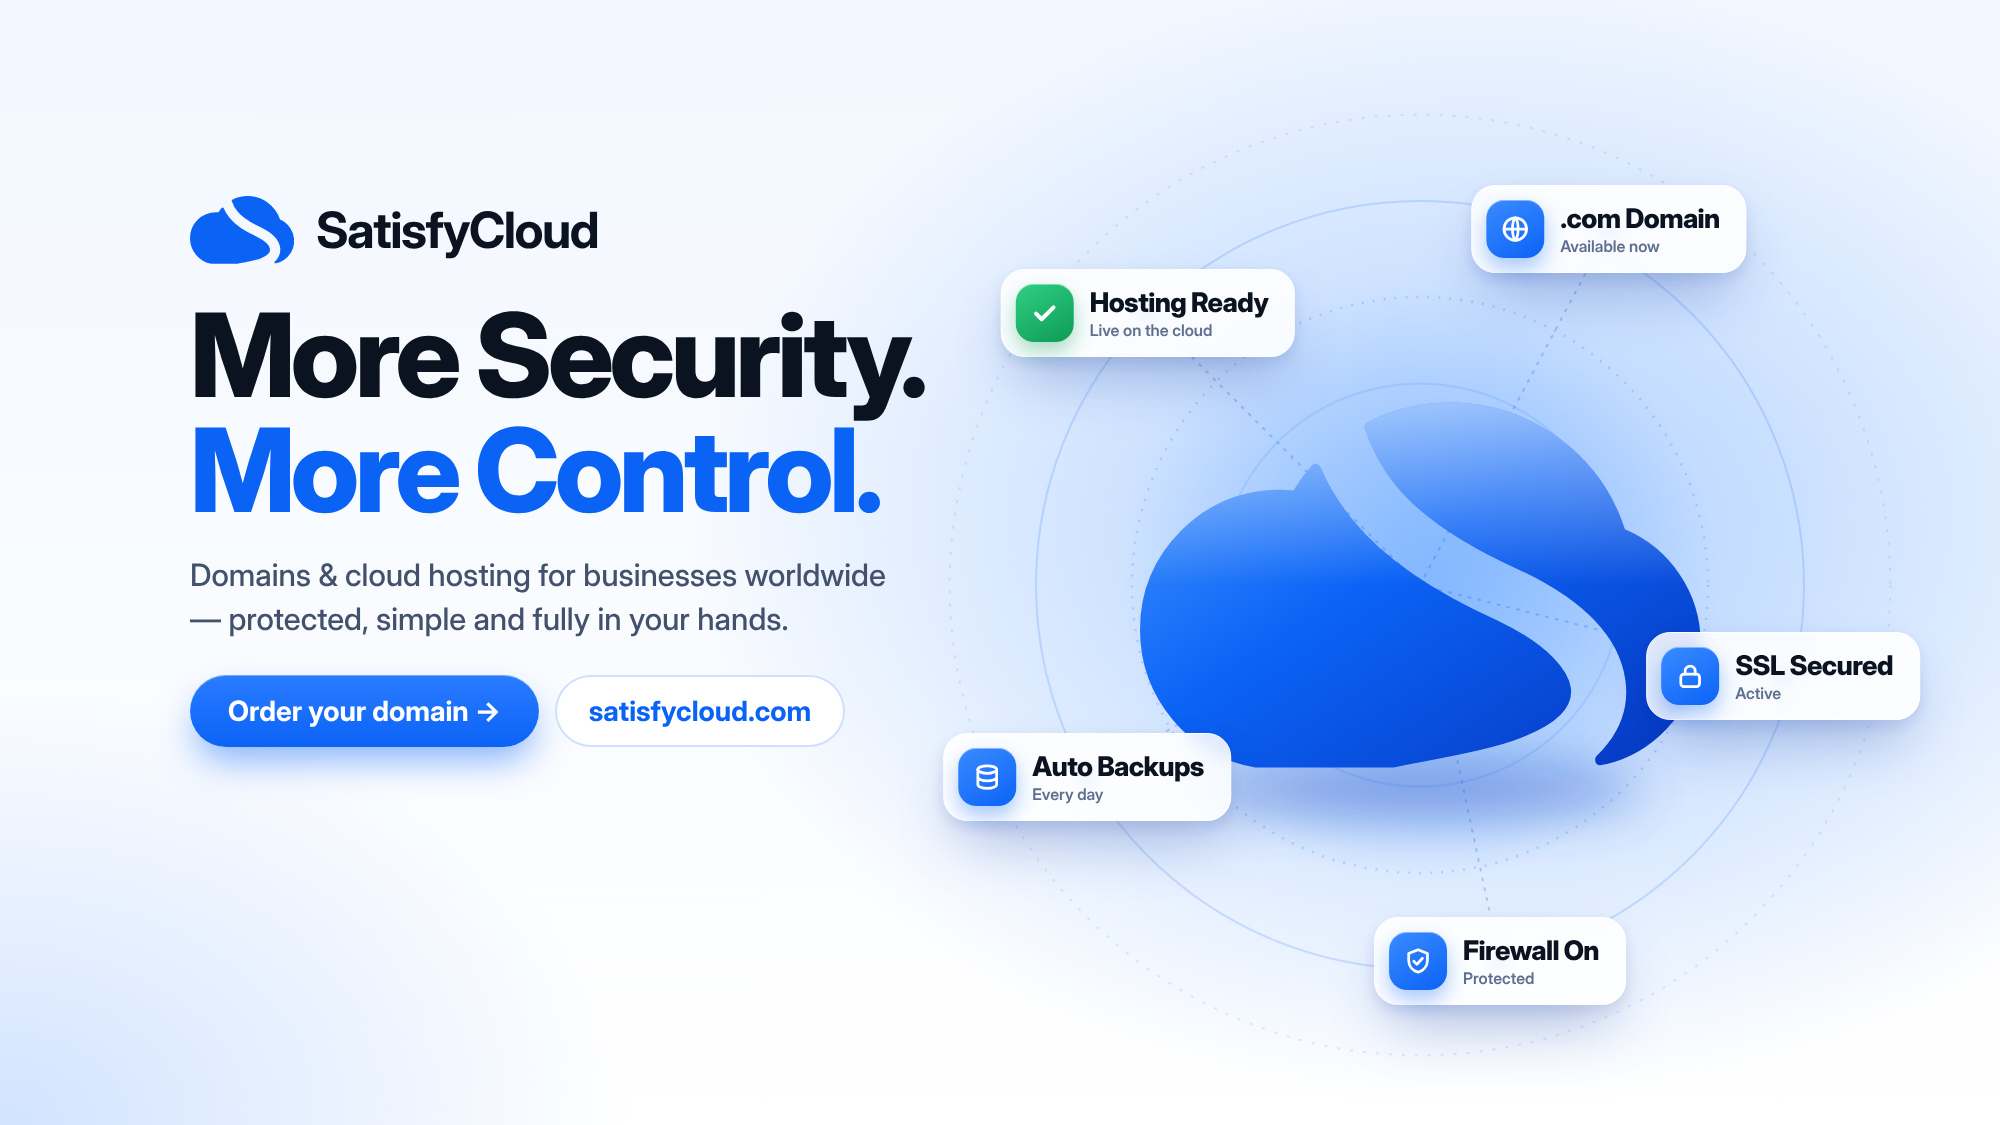
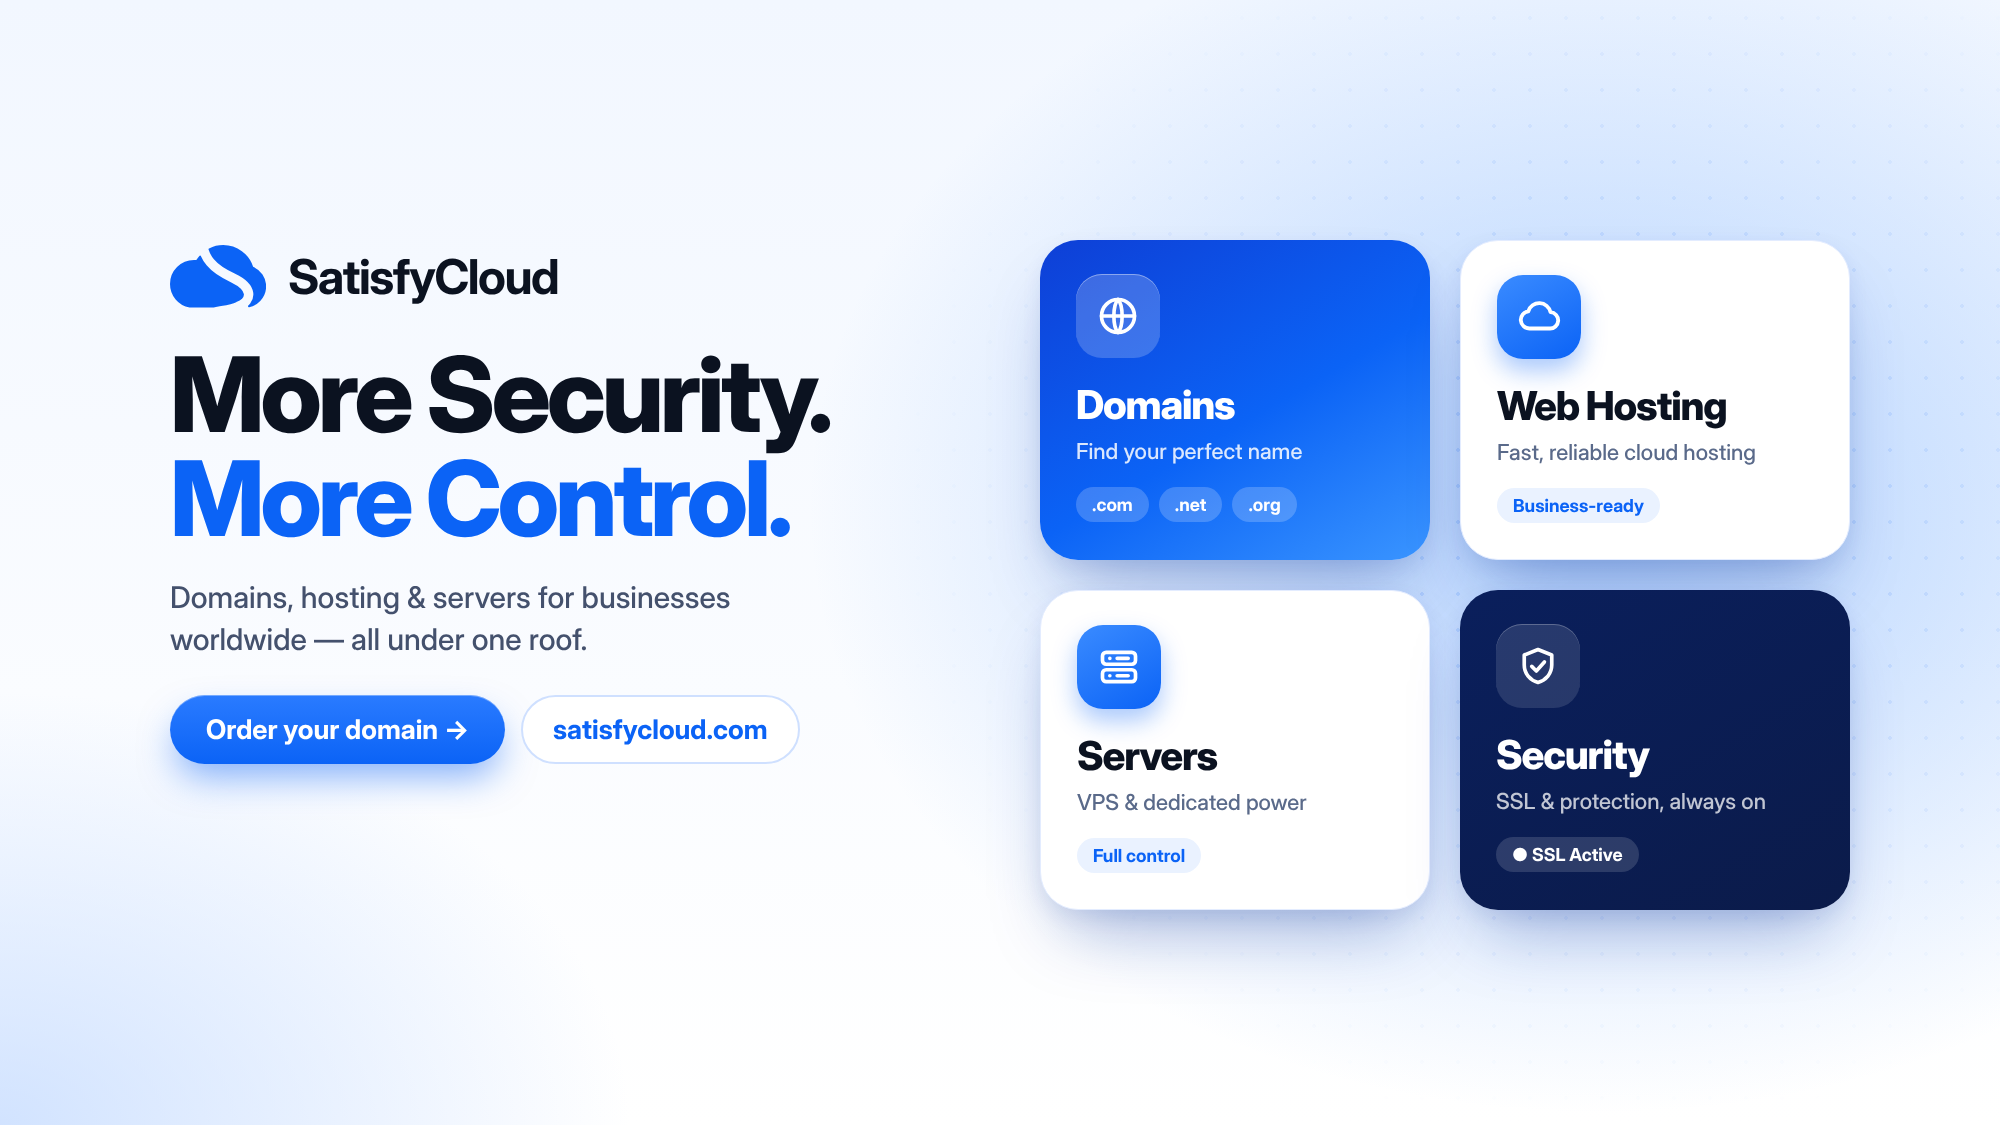
Cover shows all services in safe zone; new distinct domain-search post
Claude-Session: https://claude.ai/code/session_01HRGDra9WXwvMnTFnzRxiJG

diff --git a/satisfycloud/social/make5.py b/satisfycloud/social/make5.py
@@ -1,0 +1,63 @@
+import re
+from playwright.sync_api import sync_playwright
+Dw=open("../dist/svg/mark-tight_white.svg").read(); D=re.search(r' d="([^"]+)"',Dw)[1]
+MW,MH=[int(x) for x in re.search(r'viewBox="0 0 (\d+) (\d+)"',Dw).groups()]
+def mark(w,c="#0B63F6"): return f'<svg viewBox="0 0 {MW} {MH}" width="{w}" height="{w*MH/MW:.1f}"><path fill="{c}" d="{D}"/></svg>'
+def ic(p,c="#fff",s=40,w=2): return f'<svg width="{s}" height="{s}" viewBox="0 0 24 24" fill="none" stroke="{c}" stroke-width="{w}" stroke-linecap="round" stroke-linejoin="round">{p}</svg>'
+GLOBE='<circle cx="12" cy="12" r="9"/><path d="M3 12h18M12 3c3 3.2 3 14.8 0 18M12 3c-3 3.2-3 14.8 0 18"/>'
+SERVER='<rect x="3" y="4" width="18" height="6.5" rx="2"/><rect x="3" y="13.5" width="18" height="6.5" rx="2"/><path d="M7 7.25h.01M7 16.75h.01M11 7.25h6M11 16.75h6"/>'
+CPU='<rect x="6" y="6" width="12" height="12" rx="2.5"/><rect x="9.5" y="9.5" width="5" height="5" rx="1"/><path d="M9 2.5v3M15 2.5v3M9 18.5v3M15 18.5v3M2.5 9h3M2.5 15h3M18.5 9h3M18.5 15h3"/>'
+SHIELD='<path d="M12 3l7.5 3v5.5c0 4.6-3.1 8.2-7.5 9.5-4.4-1.3-7.5-4.9-7.5-9.5V6z"/><path d="M8.6 12.2l2.5 2.5 4.4-4.9"/>'
+CLOUD='<path d="M7 18a4.5 4.5 0 0 1-.6-8.96A6 6 0 0 1 18 9.5a4.2 4.2 0 0 1-.5 8.5z"/>'
+SEARCH='<circle cx="11" cy="11" r="6.5"/><path d="M20 20l-4.2-4.2"/>'
+CHECK='<path d="M5 12.5l4.5 4.5L19 7.5"/>'
+CSS="""*{margin:0;box-sizing:border-box}body{font-family:'Inter Display','Inter',Arial,sans-serif;color:#0B1220;background:#fff}
+.pill{display:inline-flex;align-items:center;gap:14px;background:linear-gradient(180deg,#2a7bff,#0B63F6);color:#fff;font-weight:700;border-radius:999px;box-shadow:0 18px 36px -6px rgba(11,99,246,.5),inset 0 1px 0 rgba(255,255,255,.35)}
+.ghost{display:inline-flex;align-items:center;background:#fff;border:2px solid #cfe0ff;color:#0B63F6;font-weight:700;border-radius:999px}
+.tile{position:absolute;border-radius:38px;padding:34px 36px;overflow:hidden;box-shadow:0 40px 70px -24px rgba(10,50,150,.35),0 8px 20px rgba(10,50,150,.08)}
+.tile .ib{width:84px;height:84px;border-radius:26px;display:flex;align-items:center;justify-content:center}
+.tile h3{font-size:40px;font-weight:800;letter-spacing:-1.2px;margin-top:22px}.tile p{font-size:22px;line-height:1.35;margin-top:8px;font-weight:500}
+.tags{display:flex;gap:10px;margin-top:20px;flex-wrap:wrap}.tags span{font-size:18px;font-weight:700;border-radius:999px;padding:7px 16px}
+.w{background:#fff;border:1.5px solid #e3ecff}.w .ib{background:linear-gradient(150deg,#3a8bff,#0B63F6);box-shadow:0 12px 24px rgba(11,99,246,.35)}.w p{color:#5a6a8a}.w .tags span{background:#eaf2ff;color:#0B63F6}
+.b{background:linear-gradient(150deg,#0e3fd6,#0B63F6 55%,#3a95ff);color:#fff}.b .ib{background:rgba(255,255,255,.2);box-shadow:inset 0 1px 0 rgba(255,255,255,.4)}.b p{color:rgba(255,255,255,.85)}.b .tags span{background:rgba(255,255,255,.2)}
+.n{background:linear-gradient(150deg,#0a1f5c,#0B1B4A);color:#fff}.n .ib{background:rgba(255,255,255,.12);box-shadow:inset 0 1px 0 rgba(255,255,255,.25)}.n p{color:rgba(255,255,255,.75)}.n .tags span{background:rgba(255,255,255,.14)}"""
+cover=f"""<html><style>{CSS}
+.bg{{position:absolute;inset:0;background:radial-gradient(55% 75% at 80% 45%,rgba(110,170,255,.5) 0%,rgba(110,170,255,0) 72%),radial-gradient(45% 55% at 0% 100%,rgba(190,215,255,.7) 0%,rgba(190,215,255,0) 70%),linear-gradient(180deg,#f2f7ff 0%,#fff 100%)}}
+.dots{{position:absolute;inset:0;background-image:radial-gradient(rgba(11,99,246,.16) 1.6px,transparent 1.8px);background-size:36px 36px;-webkit-mask-image:radial-gradient(45% 70% at 80% 45%,#000 0%,transparent 80%);mask-image:radial-gradient(45% 70% at 80% 45%,#000 0%,transparent 80%)}}</style>
+<body style="width:2000px;height:1125px;position:relative;overflow:hidden"><div class="bg"></div><div class="dots"></div>
+<div style="position:absolute;left:170px;top:245px;width:820px">
+ <div style="display:flex;align-items:center;gap:22px">{mark(96)}<span style="font-size:48px;font-weight:700;letter-spacing:-1.5px">SatisfyCloud</span></div>
+ <div style="font-size:104px;line-height:1;font-weight:800;letter-spacing:-4.2px;margin-top:34px">More Security.<br><span style="color:#0B63F6">More Control.</span></div>
+ <div style="font-size:30px;line-height:1.42;color:#44516d;margin-top:26px;font-weight:500;max-width:700px">Domains, hosting &amp; servers for businesses worldwide — all under one roof.</div>
+ <div style="margin-top:34px;display:flex;gap:16px"><span class="pill" style="font-size:27px;padding:18px 36px">Order your domain →</span><span class="ghost" style="font-size:27px;padding:16px 30px">satisfycloud.com</span></div>
+</div>
+<div class="tile b" style="left:1040px;top:240px;width:390px;height:320px"><div class="ib">{ic(GLOBE,"#fff",44)}</div><h3>Domains</h3><p>Find your perfect name</p><div class="tags"><span>.com</span><span>.net</span><span>.org</span></div></div>
+<div class="tile w" style="left:1460px;top:240px;width:390px;height:320px"><div class="ib">{ic(CLOUD,"#fff",46)}</div><h3>Web Hosting</h3><p>Fast, reliable cloud hosting</p><div class="tags"><span>Business-ready</span></div></div>
+<div class="tile w" style="left:1040px;top:590px;width:390px;height:320px"><div class="ib">{ic(SERVER,"#fff",44)}</div><h3>Servers</h3><p>VPS &amp; dedicated power</p><div class="tags"><span>Full control</span></div></div>
+<div class="tile n" style="left:1460px;top:590px;width:390px;height:320px"><div class="ib">{ic(SHIELD,"#fff",44)}</div><h3>Security</h3><p>SSL &amp; protection, always on</p><div class="tags"><span>● SSL Active</span></div></div>
+</body></html>"""
+post=f"""<html><style>{CSS}
+.bg{{position:absolute;inset:0;background:radial-gradient(70% 55% at 85% 5%,rgba(120,180,255,.55) 0%,rgba(120,180,255,0) 70%),radial-gradient(60% 50% at 0% 100%,rgba(0,20,120,.5) 0%,rgba(0,20,120,0) 70%),linear-gradient(160deg,#1a73ff 0%,#0B63F6 40%,#0536b0 100%)}}
+.dots{{position:absolute;inset:0;background-image:radial-gradient(rgba(255,255,255,.20) 1.6px,transparent 1.8px);background-size:34px 34px;-webkit-mask-image:radial-gradient(75% 55% at 50% 45%,#000 0%,transparent 85%);mask-image:radial-gradient(75% 55% at 50% 45%,#000 0%,transparent 85%)}}
+.svc{{display:flex;align-items:center;gap:14px;background:rgba(255,255,255,.14);border:1.5px solid rgba(255,255,255,.35);border-radius:22px;padding:14px 24px 14px 16px;color:#fff;font-size:26px;font-weight:700;backdrop-filter:blur(6px)}}
+.svc .i{{width:52px;height:52px;border-radius:16px;background:rgba(255,255,255,.2);display:flex;align-items:center;justify-content:center}}
+@keyframes b{{50%{{opacity:0}}}}</style>
+<body style="width:1080px;height:1080px;position:relative;overflow:hidden"><div class="bg"></div><div class="dots"></div>
+<div style="position:absolute;left:0;right:0;top:62px;display:flex;justify-content:center;align-items:center;gap:16px">{mark(70,"#fff")}<span style="font-size:34px;font-weight:700;letter-spacing:-1px;color:#fff">SatisfyCloud</span></div>
+<div style="position:absolute;left:0;right:0;top:178px;text-align:center;color:#fff"><div style="font-size:84px;line-height:1.02;font-weight:800;letter-spacing:-3.4px">Your brand deserves<br>its own address.</div></div>
+<div style="position:absolute;left:90px;right:90px;top:468px;height:150px;background:#fff;border-radius:36px;box-shadow:0 50px 90px -20px rgba(0,20,100,.55),0 0 0 10px rgba(255,255,255,.18);display:flex;align-items:center;padding:0 26px 0 40px;gap:20px">
+ {ic(GLOBE,"#0B63F6",54,2)}<span style="font-size:60px;font-weight:700;letter-spacing:-2px;flex:1">yourbrand<span style="color:#0B63F6">.com</span><span style="display:inline-block;width:5px;height:60px;background:#0B63F6;margin-left:6px;vertical-align:-8px;animation:b 1s infinite"></span></span>
+ <span style="background:linear-gradient(180deg,#2a7bff,#0B63F6);width:100px;height:100px;border-radius:28px;display:flex;align-items:center;justify-content:center;box-shadow:0 14px 28px rgba(11,99,246,.4)">{ic(SEARCH,"#fff",48,2.4)}</span></div>
+<div style="position:absolute;left:90px;top:652px;display:flex;align-items:center;gap:16px"><span style="display:inline-flex;align-items:center;gap:12px;background:#e7f8ee;color:#0b7a45;font-size:28px;font-weight:800;border-radius:999px;padding:12px 26px 12px 14px;box-shadow:0 14px 30px rgba(0,60,20,.25)"><span style="width:36px;height:36px;border-radius:50%;background:#12a05c;display:flex;align-items:center;justify-content:center">{ic(CHECK,"#fff",22,3.6)}</span>It's available!</span>
+ <span style="display:flex;gap:10px;color:#fff;font-size:26px;font-weight:700"><span style="border:2px solid rgba(255,255,255,.5);border-radius:999px;padding:8px 20px">.net</span><span style="border:2px solid rgba(255,255,255,.5);border-radius:999px;padding:8px 20px">.org</span><span style="border:2px solid rgba(255,255,255,.5);border-radius:999px;padding:8px 20px">.io</span></span></div>
+<div style="position:absolute;left:0;right:0;top:790px;display:flex;justify-content:center;gap:18px">
+ <div class="svc"><span class="i">{ic(GLOBE,"#fff",30)}</span>Domains</div><div class="svc"><span class="i">{ic(CLOUD,"#fff",32)}</span>Hosting</div><div class="svc"><span class="i">{ic(SERVER,"#fff",30)}</span>Servers</div></div>
+<div style="position:absolute;left:0;right:0;bottom:56px;display:flex;justify-content:center"><span style="display:inline-flex;align-items:center;background:#fff;color:#0B63F6;font-size:32px;font-weight:800;border-radius:999px;padding:18px 46px;box-shadow:0 20px 40px -10px rgba(0,20,100,.5)">satisfycloud.com →</span></div>
+</body></html>"""
+open("cover.html","w").write(cover);open("post.html","w").write(post)
+CH='/opt/pw-browsers/chromium-1243/chrome-linux64/chrome'
+with sync_playwright() as pw:
+    br=pw.chromium.launch(executable_path=CH,args=['--no-sandbox'])
+    for n,w,h,sc,out in [("cover",2000,1125,1,"facebook-cover.png"),("post",1080,1080,2,"facebook-post@2x.png")]:
+        pg=br.new_page(viewport={"width":w,"height":h},device_scale_factor=sc);pg.goto(f"file:///home/user/logo-design-skill/satisfycloud/social/{n}.html");pg.wait_for_timeout(200);pg.screenshot(path=out);pg.close()
+    br.close()
